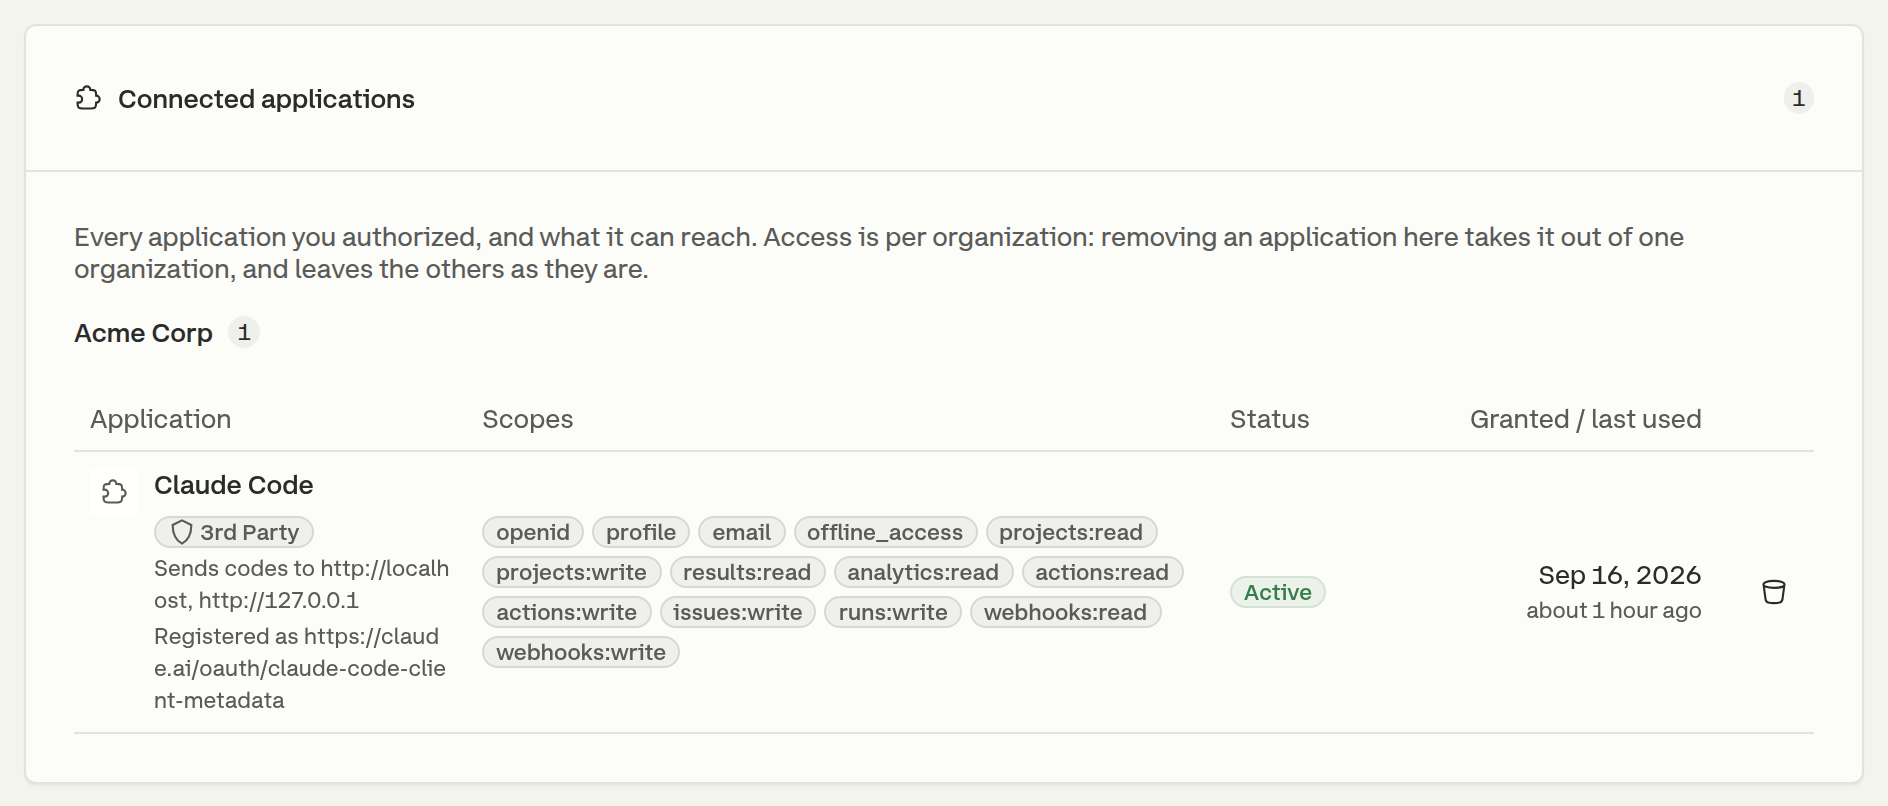
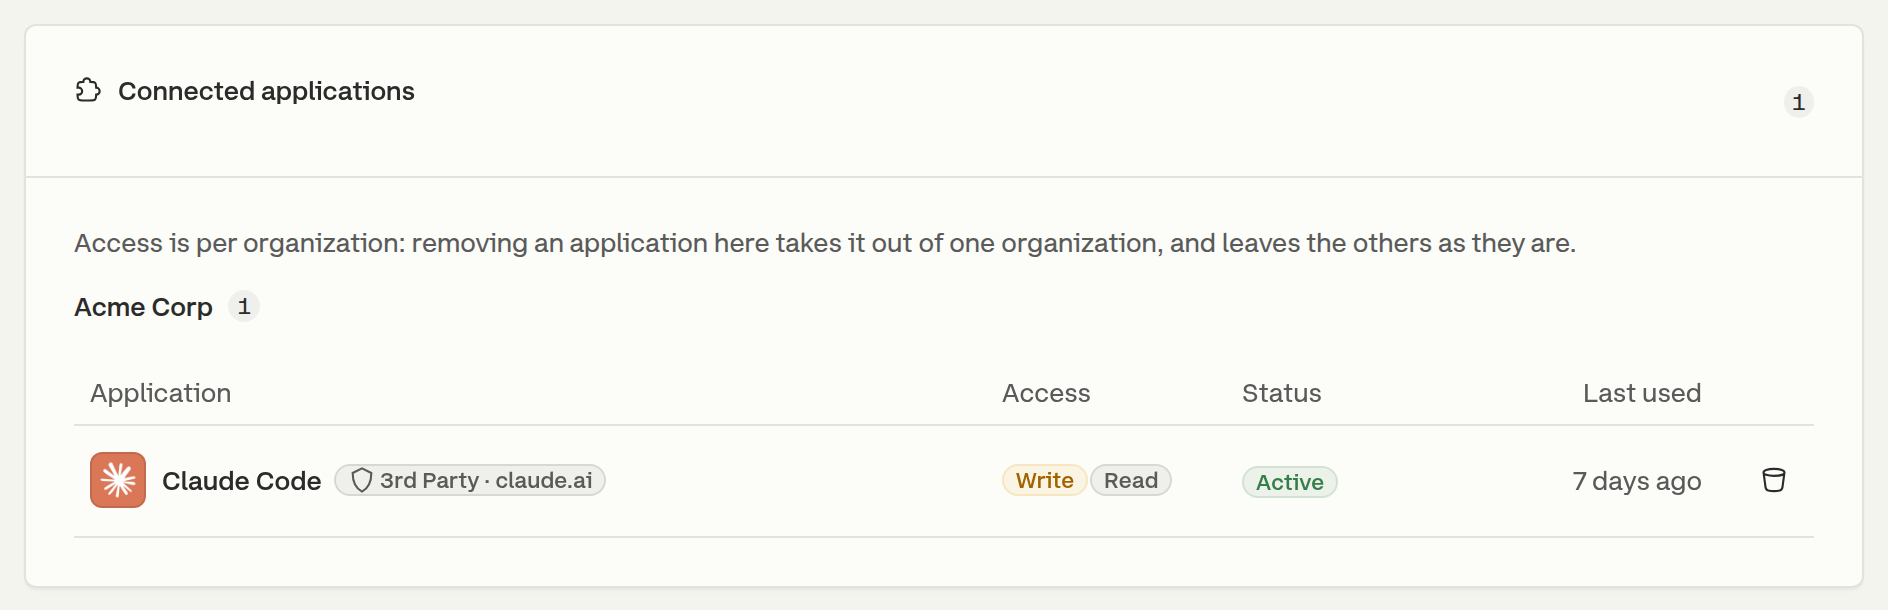
docs: refresh OAuth and token screenshots for the grouped permission UI
The consent screen now groups permissions by area with Read/Write badges,
and the connected-applications and token lists show access badges with
the detail moved to a dialog opened from the row. Recaptured all eight
screens from staging and added the two detail dialogs.

diff --git a/authentication/oauth.md b/authentication/oauth.md
@@ -55,9 +55,9 @@ Authorizing the same application for a second organization is a separate grant, 
 
 ### 3. Authorize
 
-The consent screen names the application, the address it will receive authorization codes at, and every permission it asked for, marked as a read or a write.
+The consent screen names the application, the address it will receive authorization codes at, and every permission it asked for, grouped by area and marked as a read or a write.
 
-<figure><img src="../.gitbook/assets/oauth-consent.png" alt="The Currents consent screen, listing the permissions an application requested as reads and writes"><figcaption><p>Nothing is granted that is not on this screen</p></figcaption></figure>
+<figure><img src="../.gitbook/assets/oauth-consent.png" alt="The Currents consent screen, listing the permissions an application requested grouped by area, each marked Read or Write"><figcaption><p>Nothing is granted that is not on this screen</p></figcaption></figure>
 
 Currents verifies nothing an application claims about itself unless it is marked **Listed**, which means Currents ships the definition of that client. Anything else is marked **3rd Party**: its name, its icon and its description are its own claims. The redirect address on the screen is the part worth reading - it is where the authorization code goes, and a familiar application sending codes to an unfamiliar address is the signal that something is wrong.
 
@@ -117,13 +117,17 @@ This is the part an API key cannot do. A key's access level is read when a call 
 
 ## Reviewing and revoking access
 
-Each person sees every application they authorized under **Account → Connected Applications**, grouped by organization, with the permissions each grant holds and when it was last used.
+Each person sees every application they authorized under **Account → Connected Applications**, grouped by organization, with whether each grant can read or write, its status and when it was last used.
 
-<figure><img src="../.gitbook/assets/oauth-connected-applications.png" alt="The Connected Applications panel in a Currents account, showing one authorized application with its permissions and a remove control"><figcaption><p>Account → Connected Applications</p></figcaption></figure>
+<figure><img src="../.gitbook/assets/oauth-connected-applications.png" alt="The Connected Applications panel in a Currents account, showing one authorized application with Write and Read access badges, its status, when it was last used and a remove control"><figcaption><p>Account → Connected Applications</p></figcaption></figure>
+
+Opening a row shows the grant in full: the address the application sends codes to, when it was granted, and the areas it can write and read.
+
+<figure><img src="../.gitbook/assets/oauth-connection-details.png" alt="The Connection details dialog, naming the application, its organization, status, grant date and last use, and listing the areas it can write and the areas it can only read"><figcaption><p>The permissions a grant holds, grouped by area</p></figcaption></figure>
 
 An organization administrator sees the same grants for everyone under **Manage Organization → Connected Applications**, listed by application or by person, and can revoke any of them.
 
-<figure><img src="../.gitbook/assets/oauth-org-connections.png" alt="The organization-wide Connected Applications panel, listing an application, how many people authorized it, and when it was last used"><figcaption><p>Manage Organization → Connected Applications</p></figcaption></figure>
+<figure><img src="../.gitbook/assets/oauth-org-connections.png" alt="The organization-wide Connected Applications panel, listing an application and how many people authorized it, expanded to show one member's grant with its access and last use"><figcaption><p>Manage Organization → Connected Applications</p></figcaption></figure>
 
 Removing a grant takes the consent and the application's ability to renew with it, so it cannot quietly resume, and it covers every machine the application was installed on - one grant is not one computer.
 

diff --git a/authentication/personal-access-tokens.md b/authentication/personal-access-tokens.md
@@ -158,11 +158,13 @@ Discriminate on the `code` field rather than on the message, which is free-form.
 
 ## Reviewing and revoking tokens
 
-Each person sees their own tokens across every organization under **Account → Personal Access Tokens**, with the organization each one belongs to, its permissions, when it was created, when it expires and when it was last used.
+Each person sees their own tokens across every organization under **Account → Personal Access Tokens**, with the organization each one belongs to, whether it can read or write, when it was created, when it expires and when it was last used. Opening a row shows the token's description and the areas its permissions cover.
 
 An administrator sees every token in their organization, whoever owns it, in the **Personal access tokens** section of **Organization → API & Record Keys**, and can revoke any of them. Administrators cannot create a token for anyone else - that section is for oversight, and the link in it leads to account settings for creating one's own.
 
-<figure><img src="../.gitbook/assets/pat-token-list.png" alt="The Personal access tokens table listing four tokens with their organization, permission count, creation and expiry dates, and last use"><figcaption><p>Account → Personal Access Tokens</p></figcaption></figure>
+<figure><img src="../.gitbook/assets/pat-token-list.png" alt="The Personal access tokens table listing four tokens with their organization, Read and Write access badges, creation and expiry dates, and last use"><figcaption><p>Account → Personal Access Tokens</p></figcaption></figure>
+
+<figure><img src="../.gitbook/assets/pat-token-details.png" alt="The Token details dialog for ci-deploy, showing its description, organization, creation and expiry dates, last use, and read access to Projects, Runs and Analytics"><figcaption><p>A token's details, opened from its row</p></figcaption></figure>
 
 Revoking is immediate. Anything using the token fails on its next request, and other tokens and the organization's API keys are unaffected. A token cannot be un-revoked.
 
